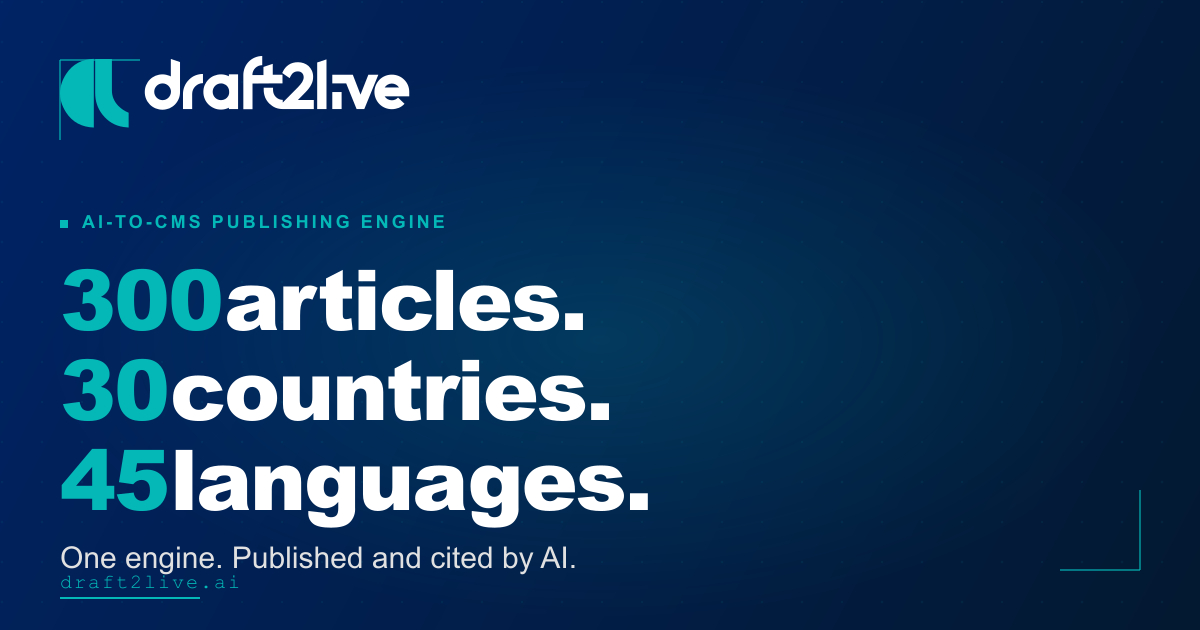
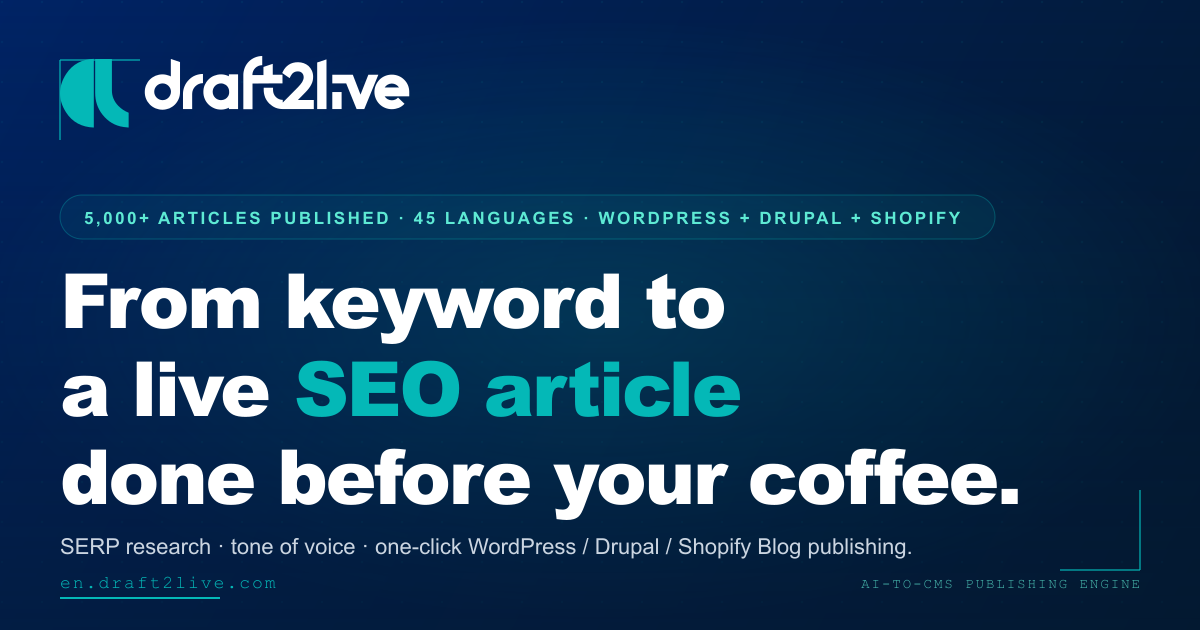
fix(og): regenerate OG image to match current hero copy and stats
Old PNG showed stale '300 articles · 30 countries · Published and cited
by AI'. New version mirrors the actual hero: 'From keyword to / a live
SEO article / done before your coffee.' plus the real stats badge
(5,000+ articles · 45 languages · WordPress + Drupal + Shopify).

- Add og-en-v2.svg as the new source of truth (matches navy/teal palette,
  hero badge, hero H1, AI-to-CMS tagline).
- Keep og-en.svg as legacy fallback (hard rule).
- Update scripts/svg-to-png.js to render og-en-v2.svg → og-en.png.
- 1200x630 PNG, ~159KB.

diff --git a/scripts/svg-to-png.js b/scripts/svg-to-png.js
@@ -5,7 +5,9 @@ const fs = require('fs');
 const path = require('path');
 const sharp = require('sharp');
 
-const inPath = path.resolve(__dirname, '..', 'public', 'og-images', 'og-en.svg');
+// Render og-en-v2.svg (the current source of truth, matches landing copy)
+// to og-en.png. og-en.svg is kept as legacy fallback.
+const inPath = path.resolve(__dirname, '..', 'public', 'og-images', 'og-en-v2.svg');
 const outPath = path.resolve(__dirname, '..', 'public', 'og-images', 'og-en.png');
 
 (async () => {
